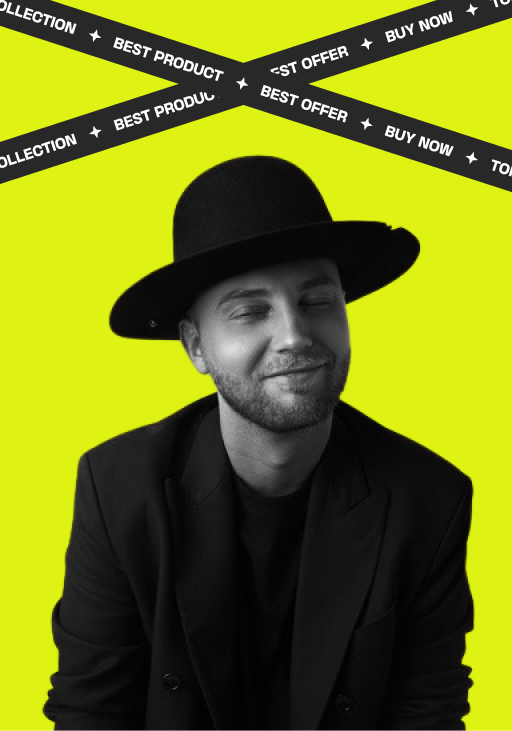
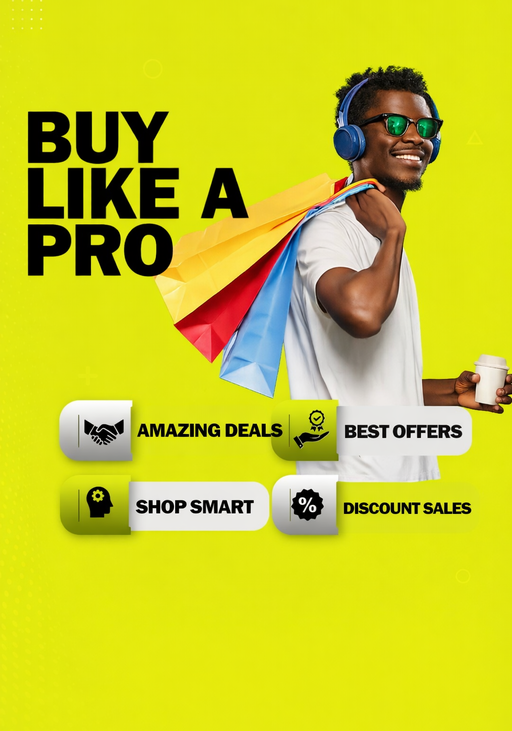
chore: refresh onboarding slides + matching copy across all 18 languages
New 3-slide intro carousel:
1. SHOPPING MADE EASY — branded welcome
2. BUY LIKE A PRO     — buyer pitch
3. SELL LIKE A PRO    — seller pitch

The new images are 1024×1536 source art center-cropped to the existing
0.7004 aspect, then Lanczos-resized to the original 512×731 RGBA PNG
format so the pubspec asset list stays unchanged.

The fashion-themed onBoarding{Fst,Snd,Trd}{Title,Subtitle} copy on the
slides below the images was no longer relevant to a live-commerce app
(and would have visually competed with the image headlines). Replaced
across all 18 locale files with welcome / buyer / seller positioning
that complements rather than duplicates each baked-in headline.

diff --git a/lib/localization/language/arabic_language.dart b/lib/localization/language/arabic_language.dart
@@ -391,12 +391,12 @@ final Map<String, String> ardz = {
   "noDataFound": "لا توجد بيانات",
   "exploreTheLatestLiveDeals": "استكشف أحدث الصفقات المباشرة!",
   "itIsLongEstablished": "شكرًا لك على شرائك! تم تأكيد تفاصيل طلبك.",
-  "onBoardingFstTitle": "اجعله عصريًا",
-  "onBoardingSndTitle": "تسوق الأساسيات الحديثة",
-  "onBoardingTrdTitle": "ملابس جديدة، شغف جديد",
-  "onBoardingFstSubtitle": "بأسلوب موضة جديد",
-  "onBoardingSndSubtitle": "بأسلوب الموضة الأكثر حداثة",
-  "onBoardingTrdSubtitle": "بأذواق موضة جديدة",
+  "onBoardingFstTitle": "مرحبًا بك في واكس آب",
+  "onBoardingSndTitle": "اشترِ بثقة",
+  "onBoardingTrdTitle": "بِع، انطلق مباشرة، انمُ",
+  "onBoardingFstSubtitle": "تسوق مباشر، محادثات حقيقية — أينما كنت ومتى شئت",
+  "onBoardingSndSubtitle": "عروض مباشرة، إصدارات ساخنة، خصومات حصرية",
+  "onBoardingTrdSubtitle": "تواصل مع المشترين فورًا وحوّل المشاهدات إلى مبيعات",
   "catelogs": "الكاتالوجات",
   "searchFilter": "بحث/تصفية",
   "ourBestProduct": "أفضل منتجاتنا",

diff --git a/lib/localization/language/bangali_language.dart b/lib/localization/language/bangali_language.dart
@@ -391,12 +391,12 @@ final Map<String, String> bnIN = {
   "noDataFound": "কোন তথ্য পাওয়া যায়নি",
   "exploreTheLatestLiveDeals": "সর্বশেষ লাইভ ডিল অন্বেষণ!",
   "itIsLongEstablished": "আপনার ক্রয়ের জন্য আপনাকে ধন্যবাদ! আপনার অর্ডার বিবরণ নিশ্চিত করা হয়েছে.",
-  "onBoardingFstTitle": "এটিকে ফ্যাশনেবল করে তুলুন",
-  "onBoardingSndTitle": "আধুনিক প্রয়োজনীয় জিনিস কেনাকাটা করুন",
-  "onBoardingTrdTitle": "নতুন কাপড় নতুন প্যাশন",
-  "onBoardingFstSubtitle": "নতুন ফ্যাশন স্টাইল নিয়ে",
-  "onBoardingSndSubtitle": "সবচেয়ে আধুনিক ফ্যাশন শৈলী সঙ্গে",
-  "onBoardingTrdSubtitle": "তাজা ফ্যাশন স্বাদ সঙ্গে",
+  "onBoardingFstTitle": "Waxxapp-এ স্বাগতম",
+  "onBoardingSndTitle": "আত্মবিশ্বাসের সাথে কিনুন",
+  "onBoardingTrdTitle": "বিক্রি করুন, লাইভ যান, বড় হোন",
+  "onBoardingFstSubtitle": "লাইভ শপিং, রিয়েল কথোপকথন — যেকোনো সময়, যেকোনো জায়গায়",
+  "onBoardingSndSubtitle": "লাইভ ডিল, হট ড্রপ, একচেটিয়া ডিসকাউন্ট",
+  "onBoardingTrdSubtitle": "রিয়েল টাইমে ক্রেতাদের কাছে পৌঁছান এবং ভিউকে বিক্রিতে রূপান্তর করুন",
   "emailTextFieldTitle": "ই-মেইল লিখুন",
   "catelogs": "ক্যাটালগ",
   "searchFilter": "অনুসন্ধান ফিল্টার",

diff --git a/lib/localization/language/chinese_language.dart b/lib/localization/language/chinese_language.dart
@@ -391,12 +391,12 @@ final Map<String, String> zhCN = {
   "noDataFound": "未找到数据",
   "exploreTheLatestLiveDeals": "探索最新的实时优惠！",
   "itIsLongEstablished": "感谢您的惠顾！您的订单详情已确认。",
-  "onBoardingFstTitle": "让它变得时尚",
-  "onBoardingSndTitle": "购买现代必需品",
-  "onBoardingTrdTitle": "新衣服新激情",
-  "onBoardingFstSubtitle": "拥有全新时尚风格",
-  "onBoardingSndSubtitle": "拥有最现代的时尚风格",
-  "onBoardingTrdSubtitle": "拥有新鲜的时尚品味",
+  "onBoardingFstTitle": "欢迎来到 Waxxapp",
+  "onBoardingSndTitle": "放心购物",
+  "onBoardingTrdTitle": "开播销售,业务腾飞",
+  "onBoardingFstSubtitle": "直播购物,实时交流 — 随时随地",
+  "onBoardingSndSubtitle": "直播优惠、热门好物、专属折扣",
+  "onBoardingTrdSubtitle": "实时触达买家,把观看变成销量",
   "emailTextFieldTitle": "输入电子邮件",
   "catelogs": "目录",
   "searchFilter": "搜索过滤器",

diff --git a/lib/localization/language/english_language.dart b/lib/localization/language/english_language.dart
@@ -393,12 +393,12 @@ final Map<String, String> enUS = {
   "noDataFound": "No Data Found",
   "exploreTheLatestLiveDeals": "Explore the latest live deals!",
   "itIsLongEstablished": "Thank you for your purchase! Your order details have been confirmed.",
-  "onBoardingFstTitle": "MAKE IT FASHIONABLE",
-  "onBoardingSndTitle": "SHOP THE MODERN ESSENTIALS",
-  "onBoardingTrdTitle": "NEW CLOTHS NEW PASSION",
-  "onBoardingFstSubtitle": "With new fashion style",
-  "onBoardingSndSubtitle": "With most modern fashion style",
-  "onBoardingTrdSubtitle": "With fresh fashion tastes ",
+  "onBoardingFstTitle": "Welcome to Waxxapp",
+  "onBoardingSndTitle": "Buy with confidence",
+  "onBoardingTrdTitle": "Sell, go live, grow",
+  "onBoardingFstSubtitle": "Live shopping, real conversations — anywhere, anytime",
+  "onBoardingSndSubtitle": "Live deals, hot drops, exclusive discounts",
+  "onBoardingTrdSubtitle": "Reach buyers in real time and turn views into sales",
   "catelogs": "Catelogs",
   "searchFilter": "Search Filter",
   "ourBestProduct": "OUR BEST PRODUCT",

diff --git a/lib/localization/language/french_language.dart b/lib/localization/language/french_language.dart
@@ -391,12 +391,12 @@ final Map<String, String> frCH = {
   "noDataFound": "Aucune donnée trouvée",
   "exploreTheLatestLiveDeals": "Découvrez les dernières offres en direct !",
   "itIsLongEstablished": "Merci pour votre achat ! Les détails de votre commande ont été confirmés.",
-  "onBoardingFstTitle": "RENDEZ-LE À LA MODE",
-  "onBoardingSndTitle": "ACHETEZ LES ESSENTIELS MODERNES",
-  "onBoardingTrdTitle": "NOUVEAUX VÊTEMENTS NOUVELLE PASSION",
-  "onBoardingFstSubtitle": "Avec un nouveau style de mode",
-  "onBoardingSndSubtitle": "Avec le style de mode le plus moderne",
-  "onBoardingTrdSubtitle": "Avec des goûts de mode frais",
+  "onBoardingFstTitle": "Bienvenue sur Waxxapp",
+  "onBoardingSndTitle": "Achetez en toute confiance",
+  "onBoardingTrdTitle": "Vendez, passez en direct, grandissez",
+  "onBoardingFstSubtitle": "Shopping en direct, vraies conversations — partout, à tout moment",
+  "onBoardingSndSubtitle": "Offres en direct, sorties exclusives, remises spéciales",
+  "onBoardingTrdSubtitle": "Atteignez les acheteurs en direct et transformez les vues en ventes",
   "emailTextFieldTitle": "Entrez l'adresse e-mail",
   "catelogs": "Catalogues",
   "searchFilter": "Filtre de recherche",

diff --git a/lib/localization/language/german_language.dart b/lib/localization/language/german_language.dart
@@ -392,12 +392,12 @@ final Map<String, String> deat = {
   "noDataFound": "Keine Daten gefunden",
   "exploreTheLatestLiveDeals": "Entdecken Sie die neuesten Live-Angebote!",
   "itIsLongEstablished": "Vielen Dank für Ihren Einkauf! Ihre Bestelldaten wurden bestätigt.",
-  "onBoardingFstTitle": "MACHEN SIE ES MODISCH",
-  "onBoardingSndTitle": "SHOPPEN SIE DIE MODERNEN ESSENTIALS",
-  "onBoardingTrdTitle": "NEUE KLEIDUNG, NEUE LEIDENSCHAFT",
-  "onBoardingFstSubtitle": "Mit neuem Modestil",
-  "onBoardingSndSubtitle": "Mit modernstem Modestil",
-  "onBoardingTrdSubtitle": "Mit frischem Modegeschmack",
+  "onBoardingFstTitle": "Willkommen bei Waxxapp",
+  "onBoardingSndTitle": "Mit Vertrauen kaufen",
+  "onBoardingTrdTitle": "Verkaufen, live gehen, wachsen",
+  "onBoardingFstSubtitle": "Live-Shopping, echte Gespräche – überall, jederzeit",
+  "onBoardingSndSubtitle": "Live-Angebote, heiße Drops, exklusive Rabatte",
+  "onBoardingTrdSubtitle": "Erreiche Käufer in Echtzeit und verwandle Aufrufe in Verkäufe",
   "emailTextFieldTitle": "E-Mail eingeben",
   "catelogs": "Kataloge",
   "searchFilter": "Suchfilter",

diff --git a/lib/localization/language/hindi_language.dart b/lib/localization/language/hindi_language.dart
@@ -391,12 +391,12 @@ final Map<String, String> hiIN = {
   "noDataFound": "डाटा प्राप्त नहीं हुआ",
   "exploreTheLatestLiveDeals": "नवीनतम लाइव सौदों का अन्वेषण करें!",
   "itIsLongEstablished": "आपकी खरीदारी के लिए धन्यवाद! आपके ऑर्डर विवरण की पुष्टि हो गई है।",
-  "onBoardingFstTitle": "इसे फैशनेबल बनाएं",
-  "onBoardingSndTitle": "आधुनिक आवश्यक वस्तुओं की खरीदारी करें",
-  "onBoardingTrdTitle": "नए कपड़े नया जुनून",
-  "onBoardingFstSubtitle": "नए फैशन स्टाइल के साथ",
-  "onBoardingSndSubtitle": "सबसे आधुनिक फैशन शैली के साथ",
-  "onBoardingTrdSubtitle": "ताज़ा फैशन स्वाद के साथ",
+  "onBoardingFstTitle": "Waxxapp में आपका स्वागत है",
+  "onBoardingSndTitle": "विश्वास के साथ खरीदें",
+  "onBoardingTrdTitle": "बेचें, लाइव जाएं, बढ़ें",
+  "onBoardingFstSubtitle": "लाइव शॉपिंग, असली बातचीत — कभी भी, कहीं भी",
+  "onBoardingSndSubtitle": "लाइव डील, हॉट ड्रॉप, खास छूट",
+  "onBoardingTrdSubtitle": "रियल टाइम में खरीदारों तक पहुंचें और व्यूज़ को बिक्री में बदलें",
   "emailTextFieldTitle": "ई-मेल दर्ज करें",
   "catelogs": "कैटेलॉग",
   "searchFilter": "खोज फ़िल्टर",

diff --git a/lib/localization/language/indonesian_language.dart b/lib/localization/language/indonesian_language.dart
@@ -391,12 +391,12 @@ final Map<String, String> idID = {
   "noDataFound": "Tidak Ada Data Ditemukan",
   "exploreTheLatestLiveDeals": "Jelajahi penawaran langsung terkini!",
   "itIsLongEstablished": "Terima kasih atas pembelian Anda! Detail pesanan Anda telah dikonfirmasi.",
-  "onBoardingFstTitle": "JADIKANLAH MODIS",
-  "onBoardingSndTitle": "BELANJA KEBUTUHAN MODERN",
-  "onBoardingTrdTitle": "PAKAIAN BARU GAIRAH BARU",
-  "onBoardingFstSubtitle": "Dengan gaya mode baru",
-  "onBoardingSndSubtitle": "Dengan gaya busana paling modern",
-  "onBoardingTrdSubtitle": "Dengan selera mode yang segar",
+  "onBoardingFstTitle": "Selamat datang di Waxxapp",
+  "onBoardingSndTitle": "Belanja dengan percaya diri",
+  "onBoardingTrdTitle": "Jual, siaran langsung, berkembang",
+  "onBoardingFstSubtitle": "Belanja langsung, percakapan nyata — di mana saja, kapan saja",
+  "onBoardingSndSubtitle": "Penawaran langsung, drop terbaru, diskon eksklusif",
+  "onBoardingTrdSubtitle": "Jangkau pembeli secara langsung dan ubah penonton menjadi pelanggan",
   "emailTextFieldTitle": "Masukkan Email",
   "catelogs": "Katalog",
   "searchFilter": "Filter Pencarian",

diff --git a/lib/localization/language/italian_language.dart b/lib/localization/language/italian_language.dart
@@ -391,12 +391,12 @@ final Map<String, String> itIT = {
   "noDataFound": "Nessun dato trovato",
   "exploreTheLatestLiveDeals": "Scopri le ultime offerte live!",
   "itIsLongEstablished": "Grazie per il tuo acquisto! I dettagli del tuo ordine sono stati confermati.",
-  "onBoardingFstTitle": "RENDILO ALLA MODA",
-  "onBoardingSndTitle": "ACQUISTA GLI ESSENZIALI MODERNI",
-  "onBoardingTrdTitle": "NUOVI TESSUTI NUOVA PASSIONE",
-  "onBoardingFstSubtitle": "Con un nuovo stile di moda",
-  "onBoardingSndSubtitle": "Con lo stile di moda più moderno",
-  "onBoardingTrdSubtitle": "Con gusti di moda freschi",
+  "onBoardingFstTitle": "Benvenuto su Waxxapp",
+  "onBoardingSndTitle": "Acquista con fiducia",
+  "onBoardingTrdTitle": "Vendi, vai live, cresci",
+  "onBoardingFstSubtitle": "Shopping live, conversazioni reali — ovunque, in qualsiasi momento",
+  "onBoardingSndSubtitle": "Offerte live, novità, sconti esclusivi",
+  "onBoardingTrdSubtitle": "Raggiungi i clienti in tempo reale e trasforma le visualizzazioni in vendite",
   "emailTextFieldTitle": "Inserisci l'e-mail",
   "catelogs": "Cataloghi",
   "searchFilter": "Filtro di ricerca",

diff --git a/lib/localization/language/korean_language.dart b/lib/localization/language/korean_language.dart
@@ -391,12 +391,12 @@ final Map<String, String> koKR = {
   "noDataFound": "데이터가 없습니다",
   "exploreTheLatestLiveDeals": "최신 라이브 딜을 확인해 보세요!",
   "itIsLongEstablished": "구매해 주셔서 감사합니다! 주문 정보가 확인되었습니다.",
-  "onBoardingFstTitle": "패셔너블하게 만들어보세요",
-  "onBoardingSndTitle": "현대 필수품을 쇼핑하세요",
-  "onBoardingTrdTitle": "새로운 옷, 새로운 열정",
-  "onBoardingFstSubtitle": "새로운 패션 스타일로",
-  "onBoardingSndSubtitle": "가장 현대적인 패션 스타일로",
-  "onBoardingTrdSubtitle": "신선한 패션 취향으로",
+  "onBoardingFstTitle": "Waxxapp에 오신 것을 환영합니다",
+  "onBoardingSndTitle": "자신 있게 쇼핑하세요",
+  "onBoardingTrdTitle": "판매하고, 라이브로, 성장하세요",
+  "onBoardingFstSubtitle": "라이브 쇼핑, 실시간 대화 — 언제 어디서나",
+  "onBoardingSndSubtitle": "라이브 할인, 신상 드롭, 단독 혜택",
+  "onBoardingTrdSubtitle": "실시간으로 구매자를 만나고 시청자를 매출로 바꾸세요",
   "emailTextFieldTitle": "이메일을 입력하세요",
   "catelogs": "카탈로그",
   "searchFilter": "검색 필터",

diff --git a/lib/localization/language/portuguese_language.dart b/lib/localization/language/portuguese_language.dart
@@ -391,12 +391,12 @@ final Map<String, String> ptPT = {
   "noDataFound": "Nenhum dado encontrado",
   "exploreTheLatestLiveDeals": "Descubra as últimas ofertas ao vivo!",
   "itIsLongEstablished": "Obrigado pela sua compra! Os detalhes do seu pedido foram confirmados.",
-  "onBoardingFstTitle": "DEIXE NA MODA",
-  "onBoardingSndTitle": "COMPRE OS ITENS ESSENCIAIS MODERNOS",
-  "onBoardingTrdTitle": "NOVAS ROUPAS NOVA PAIXÃO",
-  "onBoardingFstSubtitle": "Com novo estilo de moda",
-  "onBoardingSndSubtitle": "Com o estilo de moda mais moderno",
-  "onBoardingTrdSubtitle": "Com novos gostos de moda",
+  "onBoardingFstTitle": "Bem-vindo ao Waxxapp",
+  "onBoardingSndTitle": "Compre com confiança",
+  "onBoardingTrdTitle": "Venda, vá ao vivo, cresça",
+  "onBoardingFstSubtitle": "Compras ao vivo, conversas reais — em qualquer lugar e a qualquer hora",
+  "onBoardingSndSubtitle": "Ofertas ao vivo, novidades quentes, descontos exclusivos",
+  "onBoardingTrdSubtitle": "Alcance compradores em tempo real e converta visualizações em vendas",
   "emailTextFieldTitle": "Digite o e-mail",
   "catelogs": "Catelogs",
   "searchFilter": "Filtro de pesquisa",

diff --git a/lib/localization/language/russian_language.dart b/lib/localization/language/russian_language.dart
@@ -392,12 +392,12 @@ final Map<String, String> ruRU = {
   "noDataFound": "Данные не найдены",
   "exploreTheLatestLiveDeals": "Ознакомьтесь с последними текущими предложениями!",
   "itIsLongEstablished": "Спасибо за покупку! Данные вашего заказа подтверждены.",
-  "onBoardingFstTitle": "СДЕЛАЙТЕ ЭТО МОДНЫМ",
-  "onBoardingSndTitle": "Покупайте современные товары первой необходимости",
-  "onBoardingTrdTitle": "НОВЫЕ ОДЕЖДЫ, НОВАЯ СТРАСТЬ",
-  "onBoardingFstSubtitle": "С новым стилем моды",
-  "onBoardingSndSubtitle": "С самым современным стилем моды",
-  "onBoardingTrdSubtitle": "Со свежими модными вкусами",
+  "onBoardingFstTitle": "Добро пожаловать в Waxxapp",
+  "onBoardingSndTitle": "Покупайте уверенно",
+  "onBoardingTrdTitle": "Продавайте, выходите в эфир, развивайтесь",
+  "onBoardingFstSubtitle": "Прямые покупки, живое общение — в любое время и в любом месте",
+  "onBoardingSndSubtitle": "Прямые акции, горячие новинки, эксклюзивные скидки",
+  "onBoardingTrdSubtitle": "Общайтесь с покупателями в реальном времени и превращайте просмотры в продажи",
   "emailTextFieldTitle": "Введите адрес электронной почты",
   "catelogs": "Кателоги",
   "searchFilter": "Фильтр поиска",